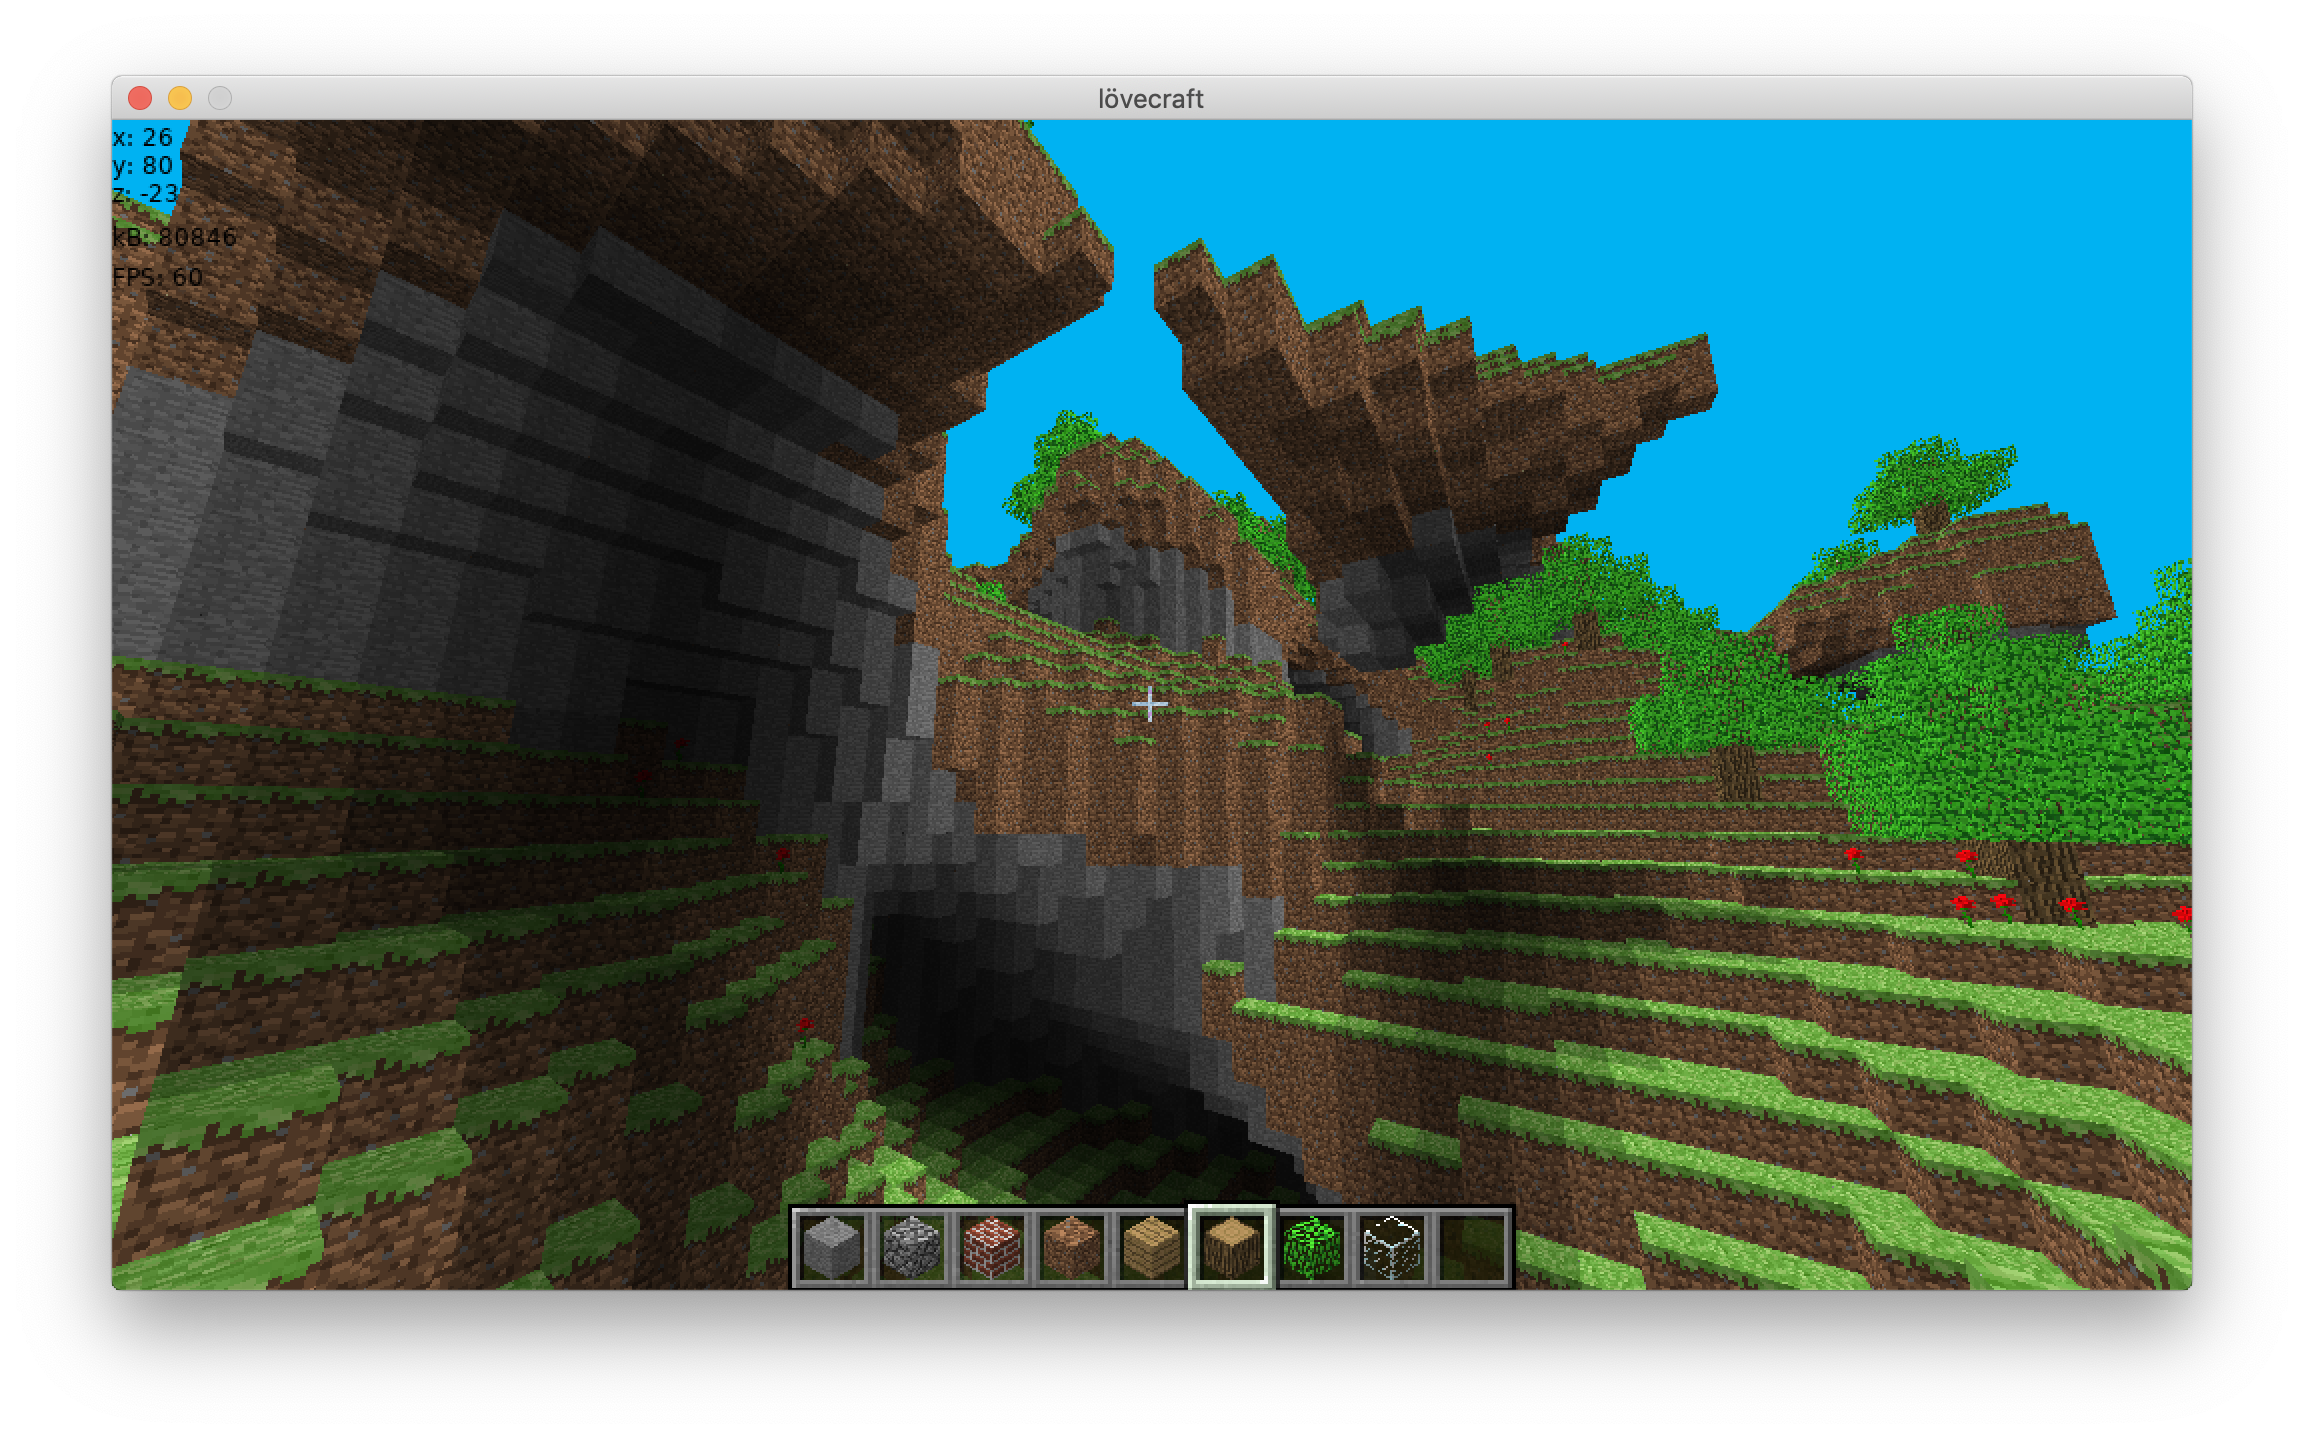
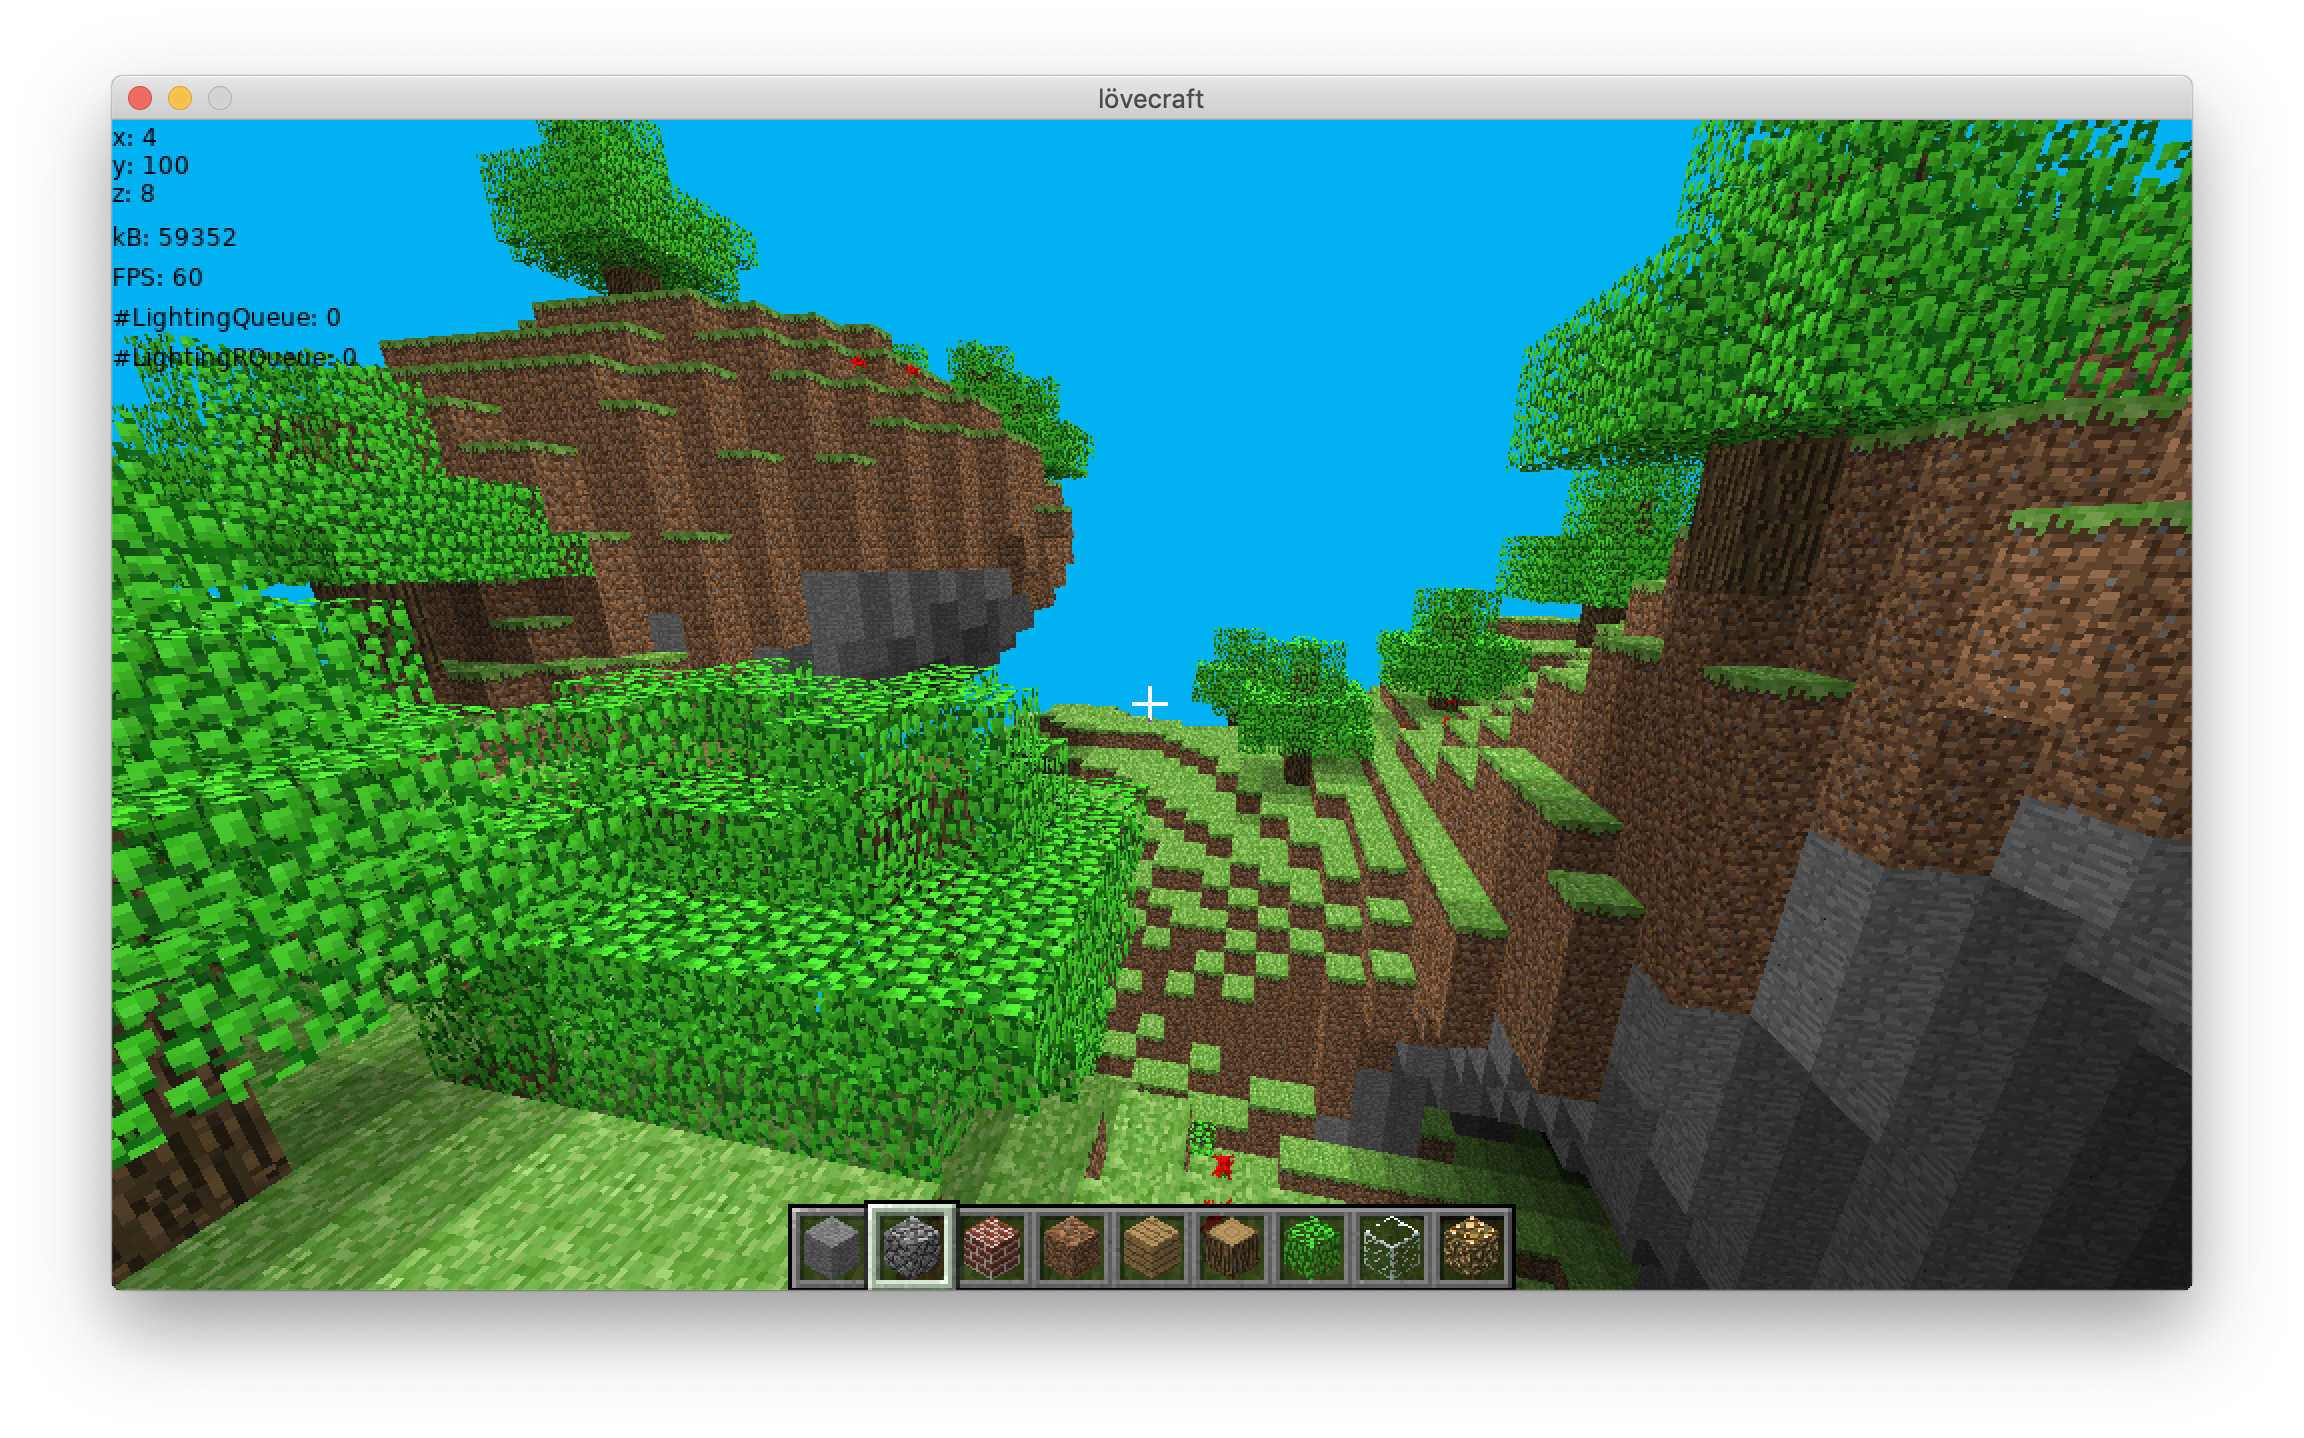
updated cover images

diff --git a/README.md b/README.md
@@ -4,4 +4,5 @@ A 3D Minecraft clone built in LÖVE2D 11.2 for fun using my 3D engine SS3D and C
 
 Feel free to fork, dissect, peruse, and use this code for whatever you want.
 
-![test](cover.png)
+![pic1](cover.png)
+![pic2](cover2.png)
